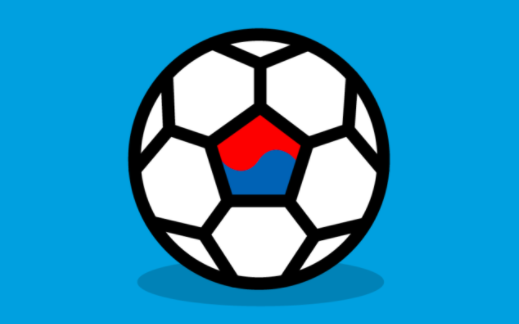
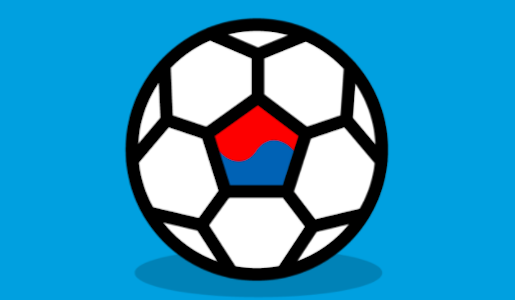
css수정 및 사진사이즈 변경

diff --git a/_includes/css/main.css b/_includes/css/main.css
@@ -81,7 +81,7 @@ hr.star-primary:after {
 }
 
 #appearence .container{
-    min-height: 100vh;
+    min-height: 90vh;
 }
 
 .skill-wrap{
